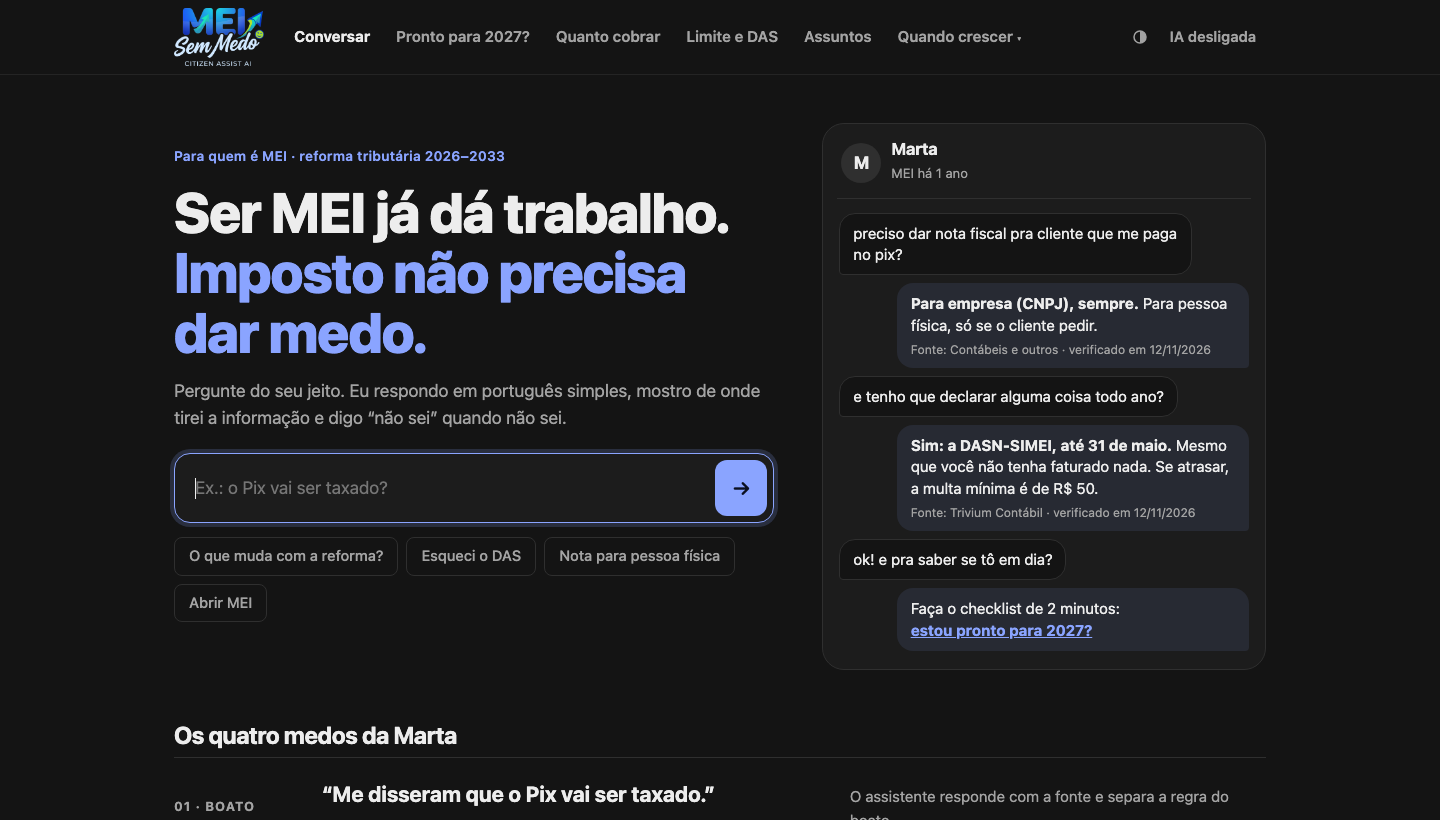
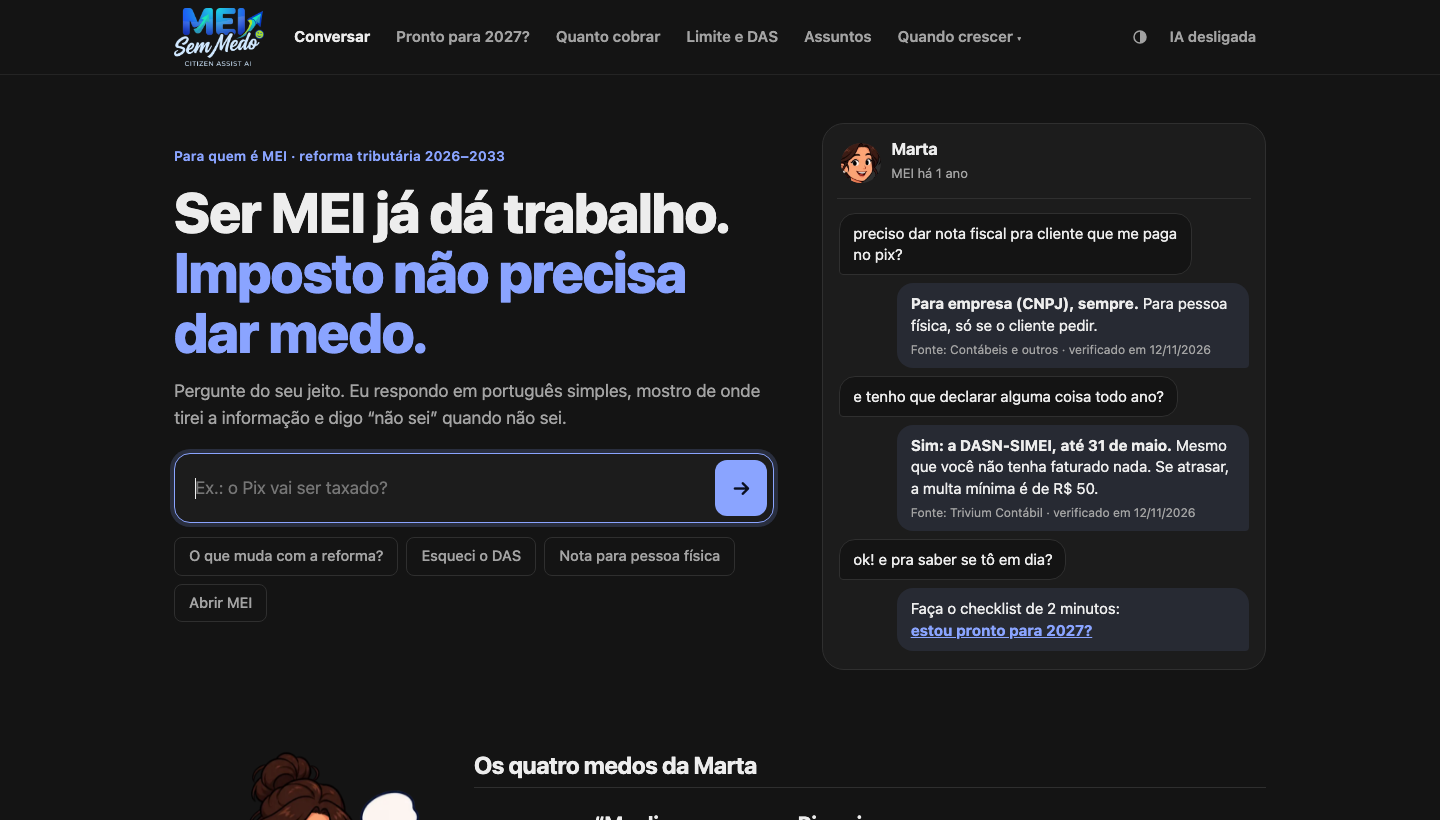
Novas fotos

Changed region(s): [[0.125, 0.8841, 0.5312, 1.0], [0.5938, 0.9451, 0.8438, 1.0], [0.5625, 0.1829, 0.625, 0.2134]]

diff --git a/web/index.html b/web/index.html
@@ -67,7 +67,7 @@
       <p class="rodape-links"><button type="button" id="limpar" class="link" hidden>Nova conversa</button></p>
     </div>
     <aside class="celular so-landing" aria-labelledby="h-marta">
-      <div class="cel-topo"><span class="avatar" aria-hidden="true">M</span><div><h2 id="h-marta">Marta</h2><span>MEI há 1 ano</span></div></div>
+      <div class="cel-topo"><img class="avatar" src="img/marta-perfil.webp" width="40" height="40" alt=""><div><h2 id="h-marta">Marta</h2><span>MEI há 1 ano</span></div></div>
       <div class="cel-msgs">
         <p class="bolha ela">preciso dar nota fiscal pra cliente que me paga no pix?</p>
         <p class="bolha nos"><b>Para empresa (CNPJ), sempre.</b> Para pessoa física, só se o cliente pedir.<span class="bolha-fonte">Fonte: Contábeis e outros · verificado em 12/11/2026</span></p>
@@ -79,8 +79,11 @@
     </aside>
   </div>
   <div id="landing2" class="so-landing">
-    <section class="historia" aria-labelledby="h-marta">
-      <h2 class="sec">Os quatro medos da Marta</h2>
+    <section class="historia" aria-labelledby="h-medos">
+      <img class="ilu-duvida" src="img/marta-duvida.webp" width="300" height="360" loading="lazy"
+           alt="Marta no balcão da confeitaria, olhando o celular com cara de dúvida">
+      <div class="historia-txt">
+      <h2 class="sec" id="h-medos">Os quatro medos da Marta</h2>
       <ol class="medos">
         <li class="medo">
           <span class="medo-tag">01 · Boato</span>
@@ -107,6 +110,7 @@
           <button type="button" class="medo-cta" data-aba="pronto">Estou pronto para 2027?</button>
         </li>
       </ol>
+      </div>
     </section>
 
     <section class="destaque" aria-labelledby="h-2027">
@@ -115,11 +119,8 @@
         <p>Responda “sim”, “não” ou “não sei” e receba uma lista do que resolver primeiro, com a fonte de cada item. Suas respostas não saem deste navegador.</p>
         <button type="button" class="ferr grande" data-aba="pronto">Começar o checklist</button>
       </div>
-      <div class="ck-amostra" aria-hidden="true">
-        <span class="fonte">Pergunta 1 de 10</span>
-        <b>Seu DAS está pago em dia?</b>
-        <span class="ck-amostra-b"><i>Sim</i><i>Não</i><i>Não sei</i></span>
-      </div>
+      <img class="ilu-prancheta" src="img/marta-prancheta.webp" width="240" height="313" loading="lazy"
+           alt="Marta sorrindo e mostrando uma prancheta com dois itens marcados e um em branco">
     </section>
 
     <section aria-labelledby="h-crescer">

diff --git a/web/style.css b/web/style.css
@@ -393,3 +393,23 @@ footer{text-align:center}
   .cel-msgs .bolha{max-width:92%}
 }
 .seg label{display:flex}.seg span{flex:1;display:flex;align-items:center;justify-content:center}
+
+/* ===== ilustrações da Marta ===== */
+.historia{display:grid;grid-template-columns:260px minmax(0,1fr);gap:0 40px;align-items:start}
+.ilu-duvida{width:100%;height:auto;margin-top:40px}
+.historia-txt .sec{margin-top:44px}
+.medo{grid-template-columns:96px minmax(0,1.1fr) minmax(0,1fr);gap:6px 24px}
+.destaque{align-items:flex-end;padding-bottom:0;overflow:hidden}
+.destaque-txt{padding-bottom:28px;align-self:center}
+.ilu-prancheta{flex:none;width:210px;height:auto;margin:-8px 8px 0 0;display:block}
+@media (max-width:860px){
+  .historia{grid-template-columns:1fr}
+  .ilu-duvida{position:static;width:190px;margin:32px 0 -24px}
+}
+@media (max-width:560px){
+  .destaque{align-items:stretch}
+  .destaque-txt{padding-bottom:0}
+  .ilu-prancheta{width:160px;align-self:center;margin:4px 0 0}
+}
+@media (max-width:760px){.medo{grid-template-columns:1fr;gap:6px}}
+.cel-topo img.avatar{display:block;object-fit:cover;background:var(--bd)}
